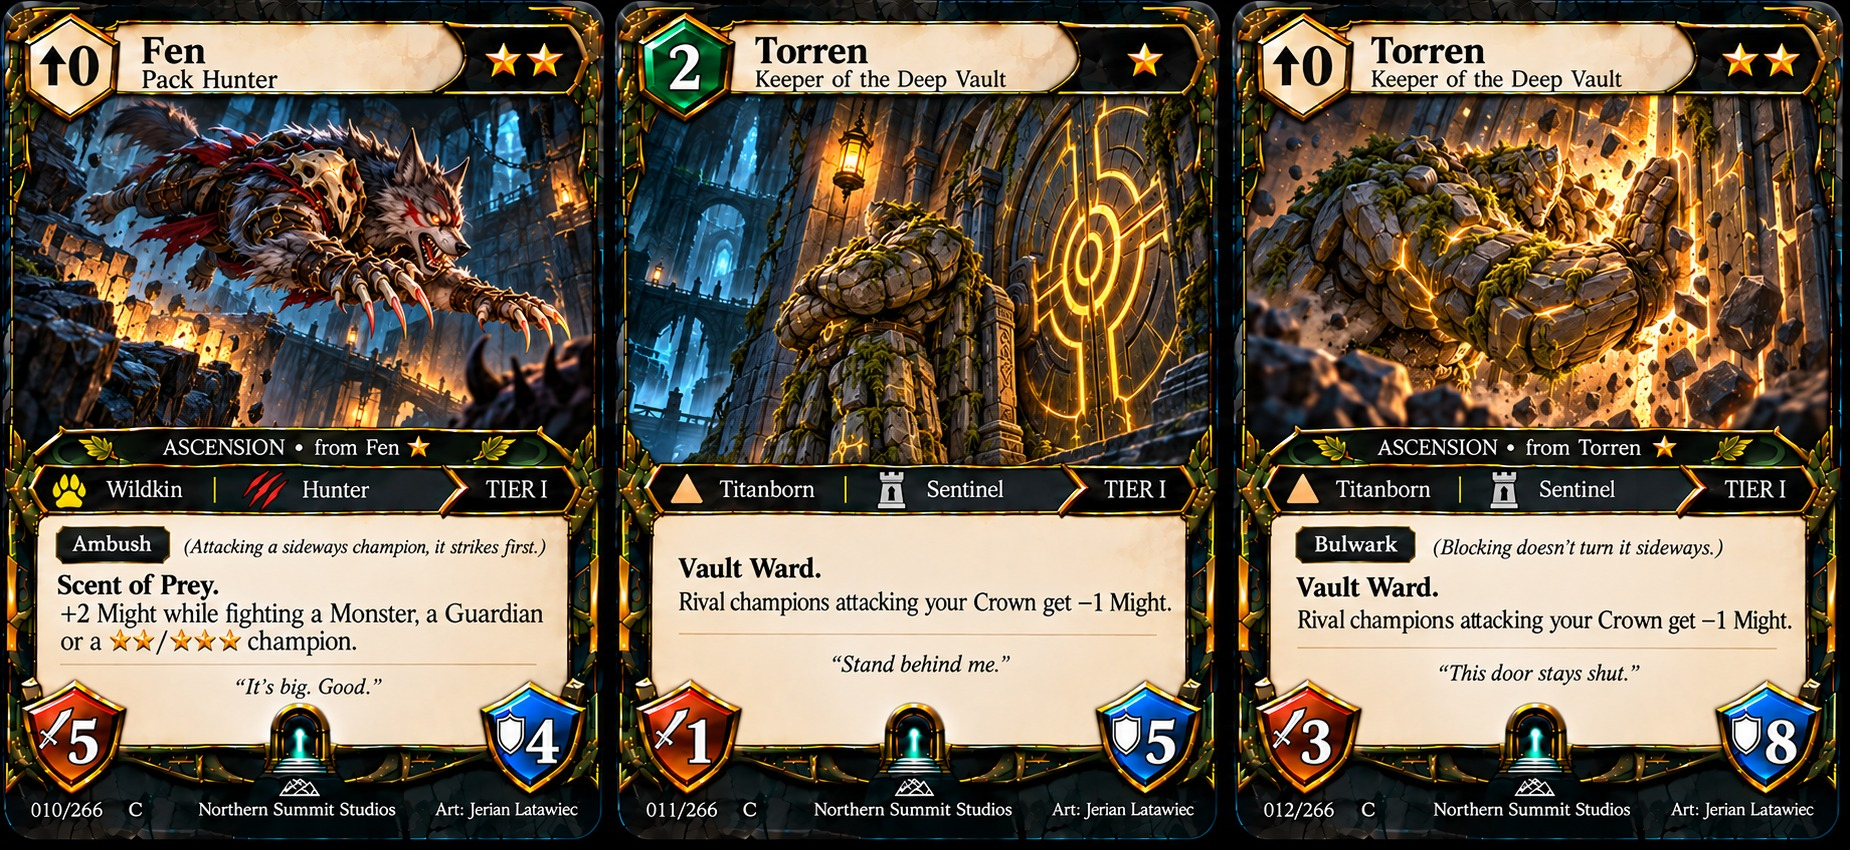
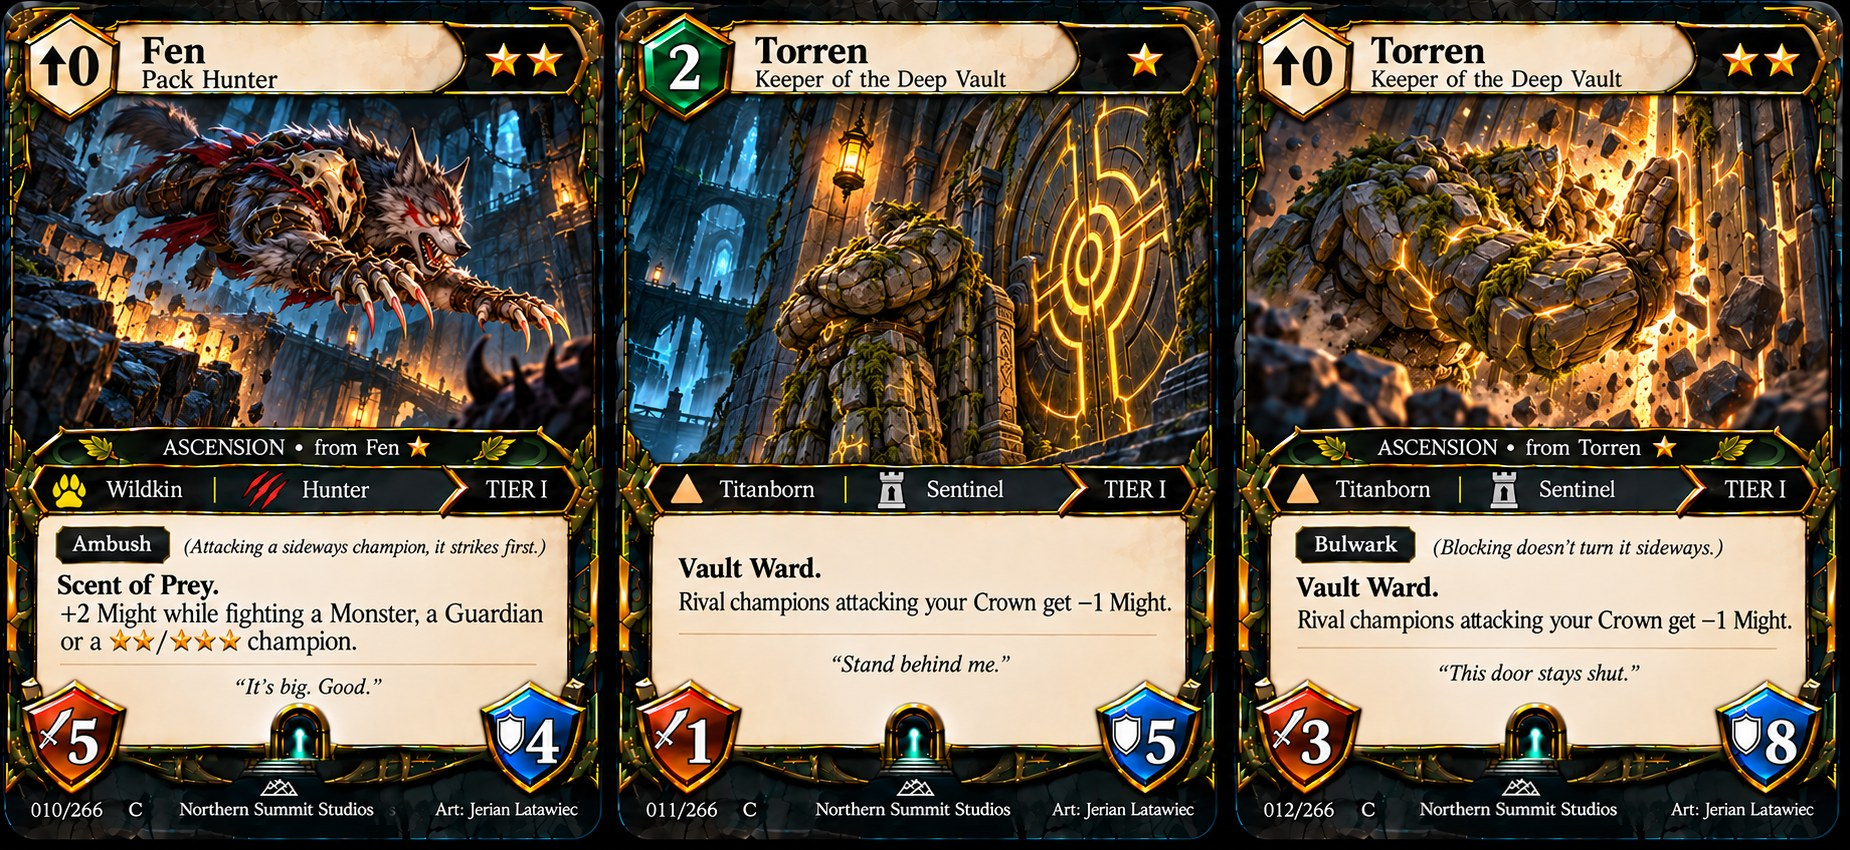
art(set2): one identical gateway + mountain + studio name on every Set 2 card
set2-emblem.py stamps the S2-001 Bramble emblem block onto every card, aligned
on its keyhole and studio-name line; keeps flavour text and the artist credit,
paints out leftovers of older, wider studio names. Works from untouched
originals in Set 2/Old/Card Sheets (original), so it is safe to re-run.

Changed region(s): [[0.7395, 0.8871, 0.8935, 0.9788], [0.0924, 0.8871, 0.2157, 0.9788], [0.4314, 0.8871, 0.5546, 0.9788]]

diff --git a/prototype-v0.2/tools/set2-emblem.py b/prototype-v0.2/tools/set2-emblem.py
@@ -1,0 +1,219 @@
+"""
+Set 2 bottom-centre emblem (owner request 2026-10-15): the bronze keyhole gateway, the studio mountain logo and the
+"Northern Summit Studios" footer name drift between AI-made sheets. stamp_emblem() replaces that block on any Set 2
+card with ONE reference block cut from the first approved Set 2 card (S2-001 Bramble), aligned on the teal keyhole.
+The parchment and flavour text above the arch are kept: reference parchment pixels are left out of the stamp.
+"""
+import os
+
+import numpy as np
+from PIL import Image, ImageDraw, ImageFilter
+
+SET2 = r"C:\Users\micha\Desktop\Crownfall Art\10 Sovereign's Hand\Set 2 - Beneath the Arena"
+ORIGINALS = os.path.join(SET2, "Old", "Card Sheets (original)")
+REF_SHEET = "Cards 001-003 Bramble and Kira Volt.png"
+BOX = (0.29, 0.835, 0.71, 0.985)   # block on a card, as fractions of width / height
+_REF = None
+
+
+def keyhole(a, w, h):
+    """Centre of the teal keyhole in the bottom-centre of a card array, or None."""
+    x0, x1, y0 = int(w * 0.38), int(w * 0.62), int(h * 0.82)
+    r, g, b = a[y0:, x0:x1, 0], a[y0:, x0:x1, 1], a[y0:, x0:x1, 2]
+    m = (g > 150) & (b > 150) & (r < 130)
+    ys, xs = np.where(m)
+    if len(xs) < 15:
+        return None
+    return (xs.min() + xs.max()) / 2 + x0, (ys.min() + ys.max()) / 2 + y0
+
+
+def footer_row(a, w, h):
+    """Vertical centre of the studio name on the footer line (centroid of its light pixels), or None."""
+    y0 = int(h * 0.93)
+    band = a[y0:h, int(w * 0.30):int(w * 0.70)].min(axis=2) > 175
+    ys = np.where(band)[0]
+    if len(ys) < 20:
+        return None
+    return ys.mean() + y0
+
+
+def credit_left(a, w, h, fy):
+    """Left edge of the artist credit ("Art: ..."), found by walking left from the card's right side over word gaps."""
+    y0, y1 = max(0, int(fy - h * 0.02)), min(h, int(fy + h * 0.024))
+    lit = (a[y0:y1].min(axis=2) > 175).any(axis=0)
+    xs = np.where(lit[int(w * 0.55):int(w * 0.95)])[0] + int(w * 0.55)
+    if len(xs) == 0:
+        return int(w * 0.73)
+    left = xs.max()
+    for x in xs[::-1]:
+        if left - x > w * 0.025:  # a gap wider than a space: the studio name is on the other side
+            break
+        left = x
+    return int(left)
+
+
+def _cards(im):
+    a = np.asarray(im).astype(int)
+    h = im.height
+    lit = a[int(h * .12):int(h * .88)].max(axis=2).max(axis=0) >= 24
+    runs, start = [], None
+    for x, v in enumerate(lit):
+        if v and start is None:
+            start = x
+        if not v and start is not None:
+            runs.append((start, x)); start = None
+    if start is not None:
+        runs.append((start, len(lit)))
+    out = []
+    for x0, x1 in (r for r in runs if r[1] - r[0] > im.width * 0.2):
+        rows = np.where(a[:, x0:x1].max(axis=2).max(axis=1) >= 24)[0]
+        out.append((x0, rows[0], x1, rows[-1] + 1))
+    return out
+
+
+def reference():
+    """(RGBA block, its keyhole centre inside the block, card width it was cut at)."""
+    global _REF
+    if _REF is None:
+        src = os.path.join(ORIGINALS, REF_SHEET)
+        if not os.path.exists(src):
+            src = os.path.join(SET2, "Card Sheets", REF_SHEET)
+        im = Image.open(src).convert("RGB")
+        card = im.crop(_cards(im)[0])
+        w, h = card.size
+        a = np.asarray(card).astype(int)
+        kx, ky = keyhole(a, w, h)
+        bx = (int(w * BOX[0]), int(h * BOX[1]), int(w * BOX[2]), min(h, int(h * BOX[3])))
+        blk = a[bx[1]:bx[3], bx[0]:bx[2]]
+        # leave the parchment out (light beige), keep arch, steps, dark band, mountain and studio name
+        parch = (blk[..., 0] > 195) & (blk[..., 1] > 175) & (blk[..., 2] > 130) & (blk[..., 0] - blk[..., 2] > 25)
+        mask = Image.new("L", (blk.shape[1], blk.shape[0]), 255)
+        edge = Image.new("L", mask.size, 0)
+        ImageDraw.Draw(edge).rounded_rectangle((10, 6, mask.width - 11, mask.height - 1), radius=14, fill=255)
+        edge = edge.filter(ImageFilter.GaussianBlur(5))
+        mask = Image.fromarray(np.minimum(np.asarray(mask), np.asarray(edge)))
+        rgba = Image.fromarray(blk.astype("uint8")).convert("RGBA")
+        rgba.putalpha(mask)
+        fy = footer_row(a, w, h)
+        _REF = (rgba, (kx - bx[0], fy - bx[1]), w)
+    return _REF
+
+
+def _beige(x):
+    return (x[..., 0] > 195) & (x[..., 1] > 175) & (x[..., 2] > 130) & (x[..., 0] - x[..., 2] > 25)
+
+
+def stamp_emblem(card):
+    """Card with the reference gateway + mountain + studio name. Flavour text lines on the parchment are kept."""
+    im = card.convert("RGB").copy()
+    w, h = im.size
+    arr = np.asarray(im).astype(int)
+    k = keyhole(arr, w, h) or (w * 0.5, h * 0.89)
+    fy = footer_row(arr, w, h)
+    fy = fy if fy is not None else h * 0.955
+    ref, (rkx, rfy), rw = reference()
+    s = w / rw
+    blk = ref.resize((round(ref.width * s), round(ref.height * s)), Image.LANCZOS)
+    x = round(k[0] - rkx * s)
+    # the studio name sits on the card's own footer line, level with the card number and artist credit
+    y = round((fy if fy is not None else h * 0.955) - rfy * s)
+    x0, y0 = max(0, x), max(0, y)
+    H, W = min(blk.height - (y0 - y), h - y0), min(blk.width - (x0 - x), w - x0)
+    tgt = arr[y0:y0 + H, x0:x0 + W]
+    rb = np.asarray(blk.convert("RGB")).astype(int)[y0 - y:y0 - y + H, x0 - x:x0 - x + W]
+    tb, rbg = _beige(tgt), _beige(rb)
+    arch_cols = np.where((~rbg[: int(H * 0.55)]).any(axis=0))[0]
+    cx0, cx1 = (arch_cols.min(), arch_cols.max()) if len(arch_cols) else (W // 2 - 20, W // 2 + 20)
+    arch_top = y0 + int(np.argmax((~rbg[:, cx0:cx1 + 1]).any(axis=1)))  # first row of the reference arch (card coords)
+    # lowest flavour-text row: dark ink on parchment across the card, ignoring the gateway columns
+    full_b = _beige(arr)
+    near_full = np.asarray(Image.fromarray((full_b * 255).astype("uint8")).filter(ImageFilter.MaxFilter(5))) > 0
+    ink_full = near_full & ~full_b & (arr.mean(axis=2) < 140)
+    gx0, gx1 = x0 + cx0 - 10, x0 + cx1 + 10
+    side = np.concatenate([ink_full[:, int(w * 0.18):max(int(w * 0.18), gx0)], ink_full[:, min(gx1, int(w * 0.82)):int(w * 0.82)]], axis=1)
+    rows = np.where(side[int(h * 0.75):int(h * 0.92)].sum(axis=1) >= 3)[0] + int(h * 0.75)
+    text_bottom = rows.max() if len(rows) else -1
+    a_full = np.asarray(blk.split()[-1]).copy()
+    if text_bottom >= arch_top - 2:
+        # the flavour runs down past the top of the reference arch: keep the card's own gateway, swap the rest
+        cut = round(h * 0.905) - y
+        a_full[:max(0, cut)] = 0
+    else:
+        # parchment is only painted where it covers leftovers of the card's old gateway (no tone boxes elsewhere)
+        keep = ~rbg | ~tb
+        keep = np.asarray(Image.fromarray((keep * 255).astype("uint8")).filter(ImageFilter.MaxFilter(5))) > 0
+        sub = a_full[y0 - y:y0 - y + H, x0 - x:x0 - x + W]
+        sub[~keep] = 0
+    a_full = np.asarray(Image.fromarray(a_full.astype("uint8")).filter(ImageFilter.GaussianBlur(1.2))).copy()
+    cl = credit_left(arr, w, h, fy)
+    fade = np.clip((cl - 3 - (np.arange(a_full.shape[1]) + x)) / 6.0, 0, 1)  # never paint over the artist credit
+    rows_f = slice(max(0, int(fy - h * 0.03) - y), a_full.shape[0])
+    a_full[rows_f] = (a_full[rows_f] * fade[None, :]).astype(a_full.dtype)
+    blk = blk.copy()
+    blk.putalpha(Image.fromarray(a_full.astype("uint8")))
+    im.paste(blk, (x, y), blk)
+    # leftovers of the card's old, wider studio name just outside the new one (e.g. a stray "s"): paint them out
+    # with the footer's own dark colour, between the new name and the artist credit
+    out = np.asarray(im).astype(float)
+    rgb = np.asarray(blk.convert("RGB")).astype(int)
+    ra = np.asarray(blk.split()[-1]) > 200
+    fy0, fy1 = max(0, int(fy - h * 0.02)), min(h, int(fy + h * 0.024))
+    lit = (rgb.max(axis=2) > 150) & ra
+    band = lit[fy0 - y:fy1 - y]
+    tcols = np.where(band.any(axis=0))[0] + x if band.size else np.array([])
+    if len(tcols):
+        for lo, hi in ((int(w * 0.25), tcols.min() - 4), (tcols.max() + 5, cl - 3)):
+            if hi <= lo:
+                continue
+            reg = out[fy0:fy1, lo:hi]
+            lum = reg.max(axis=2)
+            dark = reg[lum < 70]
+            if (lum > 150).any() and len(dark):
+                m = np.asarray(Image.fromarray(((lum > 70) * 255).astype("uint8")).filter(ImageFilter.MaxFilter(3))) > 0
+                reg[m] = np.median(dark, axis=0)
+                out[fy0:fy1, lo:hi] = reg
+        im = Image.fromarray(out.astype("uint8"))
+    return im
+
+
+def main():
+    """Stamp every Set 2 sheet from its untouched original (copied once to Old/Card Sheets (original)),
+    then refresh the repo previews in prototype-v0.2/card-art/set2. Safe to run again after new sheets arrive."""
+    import re
+    import shutil
+    import sys
+    check = "--check" in sys.argv
+    sheets = os.path.join(SET2, "Card Sheets")
+    repo = os.path.join(os.path.dirname(__file__), "..", "card-art", "set2")
+    os.makedirs(ORIGINALS, exist_ok=True)
+    done = 0
+    for name in sorted(os.listdir(sheets)):
+        if not (name.startswith("Cards ") and name.lower().endswith(".png")):
+            continue
+        orig = os.path.join(ORIGINALS, name)
+        if not os.path.exists(orig):
+            shutil.copy2(os.path.join(sheets, name), orig)
+        im = Image.open(orig).convert("RGB")
+        for b in _cards(im):
+            im.paste(stamp_emblem(im.crop(b)), b[:2])
+        if check:
+            print("would stamp", name); continue
+        dest = os.path.join(sheets, name)
+        tmp = dest + ".tmp.png"
+        im.save(tmp)
+        try:
+            os.replace(tmp, dest)
+        except OSError as e:  # open in an image viewer
+            os.remove(tmp)
+            print(f"COULD NOT SAVE {name}: {e} (close it and run again)"); continue
+        key = "-".join(re.findall(r"\d{3}|xxx", name.split(" ", 2)[1])).lower()
+        for j in os.listdir(repo):
+            if j.startswith(f"cards-{key}-") and j.endswith(".jpg"):
+                p = os.path.join(repo, j)
+                im.resize(Image.open(p).size, Image.LANCZOS).save(p, "JPEG", quality=88)
+        done += 1
+    print(f"{done} Set 2 sheets stamped; originals kept in {ORIGINALS}")
+
+
+if __name__ == "__main__":
+    main()
